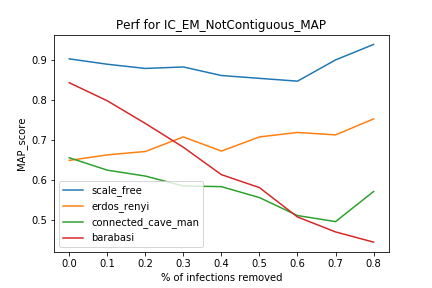
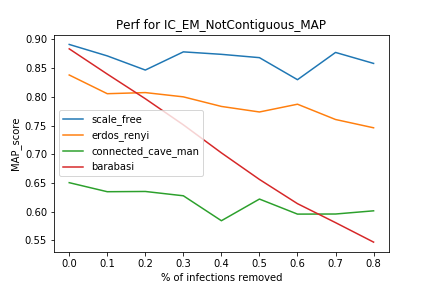
Fix MAP metrics, change cascade degradation

diff --git a/IC_SAITO/src/Cascade.py b/IC_SAITO/src/Cascade.py
@@ -113,15 +113,21 @@ def remove_xpct_infections(C, pct):
     new_C = copy.deepcopy(C)
     for (c_i,n_i) in to_remove:
         new_C[c_i].pop(n_i)
-        
     new_C = list(filter(bool,new_C))
     return new_C
-    
-def remove_xpct_users_by_cascades(c,pct):
-    ''' return a copy of all cascade from which some data is removed
-    At each cascades @pct of the users from the graph a considered hidden'''
-    pass
-    
+
+def remove_Xpct_users(nodes,C,pct):
+    ''' Returns a copy of all cascades from database from each cascades, @pct of the user are randomly selected and removed'''
+    assert 0 <= pct <=1
+    new_C = copy.deepcopy(C)
+    for c in new_C:
+         nbNodeToRemove = int(round(len(nodes)*pct))
+         to_remove = np.random.choice(nodes, size=nbNodeToRemove)
+         for node in to_remove : 
+             if node in c:
+                 c.pop(node)
+    new_C = list(filter(bool,new_C))
+    return new_C
     
 
 def nodes_in_cascades(C):

diff --git a/IC_SAITO/src/GraphsTest.py b/IC_SAITO/src/GraphsTest.py
@@ -86,9 +86,9 @@ def evaluateModelCurve(model,gtitle,g,cascades,removed_pct_list):
     time = np.zeros(len(removed_pct_list))
     MSE = np.zeros(len(removed_pct_list))
     MAP = np.zeros(len(removed_pct_list))
-    
+    nodesInG = np.unique(sum(g.keys(),())).astype(int)
     for i,pct in enumerate(removed_pct_list):
-        partial_cascades = csc.remove_xpct_infections(cascades,pct)
+        partial_cascades = csc.remove_Xpct_users(nodesInG,cascades,pct)
         D = [csc.CascadeToTimeRepr(c) for c in partial_cascades]
         time[i],MSE[i],MAP[i] = evaluateModel(model,gtitle,g,D,True)
     return time,MSE,MAP

diff --git a/IC_SAITO/src/Metrics.py b/IC_SAITO/src/Metrics.py
@@ -1,12 +1,10 @@
 import numpy as np
 import Cascade as csc 
 
-def MSE(g1,g2):
+def MSE(ref,g):
     '''calcule la mean square error entre 2 graphes '''
-    if(g1.shape < g2.shape):
-        g1,g2 = g2,g1
-    g2.resize(g1.shape)
-    return ((g1-g2).power(2)).mean()
+    g.resize(ref.shape)
+    return ((ref-g).power(2)).sum()/len(ref)
 
 
 def Pws_gs(graph,source,nbEpisode=100):

diff --git a/README.md b/README.md
@@ -19,19 +19,19 @@ Les longueurs des cascades ont les distributions suivantes : <br>
 
 |    MEAN FIT TIME    |   scale_free |   erdos_renyi |   connected_cave_man |   barabasi |
 |:--------------------|-------------:|--------------:|---------------------:|-----------:|
-| IC_EM_NotContiguous |      1.46354 |       1.84581 |              2.20731 |    4.46637 |
-| IC_EM_Saito2008     |      1.12314 |       1.33239 |              1.16416 |    2.28718 |
+| IC_EM_NotContiguous |      1.27084 |       1.7629  |              2.09882 |    4.56777 |
+| IC_EM_Saito2008     |      1.00783 |       1.34655 |              1.24197 |    2.48512 |
 
 | CROSS-VAL MSE       |   scale_free |   erdos_renyi |   connected_cave_man |   barabasi |
 |:--------------------|-------------:|--------------:|---------------------:|-----------:|
-| IC_EM_NotContiguous |   0.00722533 |    0.00790295 |            0.0139905 |  0.0330249 |
-| IC_EM_Saito2008     |   0.00257764 |    0.00306599 |            0.0122064 |  0.0165122 |
+| IC_EM_NotContiguous |     0.44908  |      0.201172 |             0.220224 |   0.449441 |
+| IC_EM_Saito2008     |     0.149846 |      0.111583 |             0.178795 |   0.227348 |
 
 | CROSS-VAL MAP       |   scale_free |   erdos_renyi |   connected_cave_man |   barabasi |
 |:--------------------|-------------:|--------------:|---------------------:|-----------:|
-| IC_EM_NotContiguous |     0.852867 |      0.650023 |             0.649683 |   0.86646  |
-| IC_EM_Saito2008     |     0.863098 |      0.776897 |             0.843288 |   0.924959 |
-| original            |     0.981434 |      0.907926 |             0.93824  |   0.967755 |
+| IC_EM_NotContiguous |     0.891275 |      0.838094 |             0.650595 |   0.883628 |
+| IC_EM_Saito2008     |     0.896268 |      0.846094 |             0.868657 |   0.923925 |
+| original            |     0.996185 |      0.92843  |             0.935542 |   0.966997 |
 
 ### Missing user testing
 

diff --git a/IC_SAITO/data/eval/MAP.md b/IC_SAITO/data/eval/MAP.md
@@ -1,5 +1,5 @@
 |                     |   scale_free |   erdos_renyi |   connected_cave_man |   barabasi |
 |:--------------------|-------------:|--------------:|---------------------:|-----------:|
-| IC_EM_NotContiguous |     0.902306 |      0.648346 |             0.655038 |   0.842643 |
-| IC_EM_Saito2008     |     0.907324 |      0.827901 |             0.847645 |   0.868787 |
-| original graph      |     0.984486 |      0.901067 |             0.934791 |   0.929425 |
+| IC_EM_NotContiguous |     0.891275 |      0.838094 |             0.650595 |   0.883628 |
+| IC_EM_Saito2008     |     0.896268 |      0.846094 |             0.868657 |   0.923925 |
+| original            |     0.996185 |      0.92843  |             0.935542 |   0.966997 |

diff --git a/IC_SAITO/data/eval/MSE.md b/IC_SAITO/data/eval/MSE.md
@@ -1,4 +1,4 @@
 |                     |   scale_free |   erdos_renyi |   connected_cave_man |   barabasi |
 |:--------------------|-------------:|--------------:|---------------------:|-----------:|
-| IC_EM_NotContiguous |   0.0048968  |    0.00633572 |            0.0196369 |  0.0235679 |
-| IC_EM_Saito2008     |   0.00269093 |    0.00262121 |            0.0128654 |  0.0129375 |
+| IC_EM_NotContiguous |     0.44908  |      0.201172 |             0.220224 |   0.449441 |
+| IC_EM_Saito2008     |     0.149846 |      0.111583 |             0.178795 |   0.227348 |

diff --git a/IC_SAITO/data/eval/fit_time.md b/IC_SAITO/data/eval/fit_time.md
@@ -1,4 +1,4 @@
 |                     |   scale_free |   erdos_renyi |   connected_cave_man |   barabasi |
 |:--------------------|-------------:|--------------:|---------------------:|-----------:|
-| IC_EM_NotContiguous |     1.1639   |       1.78401 |              3.17148 |    3.68081 |
-| IC_EM_Saito2008     |     0.915028 |       1.35486 |              1.44906 |    1.88442 |
+| IC_EM_NotContiguous |      1.27084 |       1.7629  |              2.09882 |    4.56777 |
+| IC_EM_Saito2008     |      1.00783 |       1.34655 |              1.24197 |    2.48512 |
